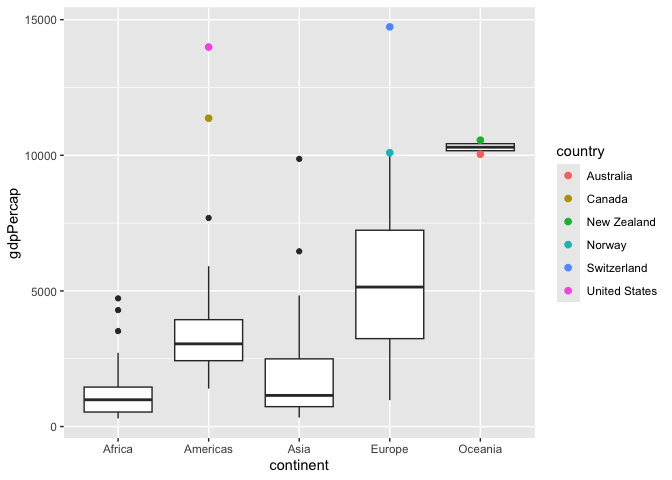
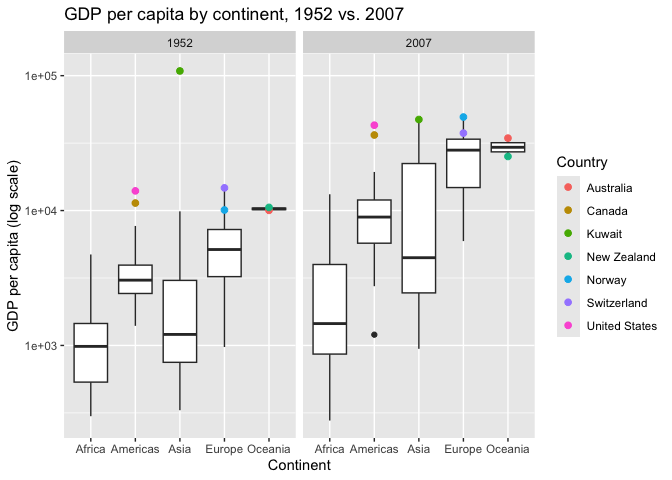
HW 4 Revision

diff --git a/challenges/c04-gapminder-assignment.md b/challenges/c04-gapminder-assignment.md
@@ -266,52 +266,44 @@ variables; think about using different aesthetics or facets.
 ``` r
 ## TASK: Create a visual of gdpPercap vs continent
 gapminder %>%
-  filter(
-    year == year_min,
-    gdpPercap < 30000
-  ) %>%
+  filter(year %in% c(year_min, year_max)) %>%
   ggplot(aes(x = continent, y = gdpPercap)) +
   geom_boxplot() +
   geom_point(
     data = . %>% filter(
-    year == year_min,
-    gdpPercap > 10000
-  ),
+      country %in% c(
+        "Australia", "Canada", "Kuwait", "New Zealand",
+        "Norway", "Switzerland", "United States"
+      )
+    ),
     mapping = aes(color = country),
     size = 2
+
+  ) +
+  scale_y_log10() +
+  facet_grid(~ year) +
+  labs(
+    title = "GDP per capita by continent, 1952 vs. 2007",
+    x = "Continent",
+    y = "GDP per capita (log scale)",
+    color = "Country"
   )
 ```
 
 ![](c04-gapminder-assignment_files/figure-gfm/q4-task-1.png)<!-- -->
 
-``` r
-gapminder %>%
-  filter(
-    year == year_max
-  ) %>%
-  ggplot(aes(x = continent, y = gdpPercap)) +
-  geom_boxplot() +
-  geom_point(
-    data = . %>% filter(country %in% c("Australia", "Canada", "New Zealand", "Norway", "Switzerland", "United States", "Kuwait")),
-    mapping = aes(color = country),
-    size = 2
-  )
-```
+**Observations**:
 
-![](c04-gapminder-assignment_files/figure-gfm/q4-task-2.png)<!-- -->
-
-**Observations**: After plotting the data, only highlighting the
-outliers from Q3, we are able to see some patterns and changes. Both
-Canada and the United States remain significant ouliers in the Americas
-boxplot. Although not all are outliers, most of the ouliers in the
-Americas, Asia, and Europe maintain a higher GDP per capita. The
-countries that dont’, however, are Switzerland and New Zeland. New
-Zeland is seen to actually drop below Australia in GDP. Switzerland is
-seen to drop in standing (not actual GDP) from being a noticable outlier
-to being a country within the 3rd quartile.
-
-One things to note: Most, if not all, countries saw and increase in GDP
-per capita.
+After plotting the data and highlighting only the outliers from q3, we
+can see some patterns and changes. Kuwait is by far the highest GDP per
+capita in 1952, but it falls to about by 2007, the only highlighted
+country whose GDP per capita decreased. Canada and the United States
+remain outliers in the Americas in both years. Switzerland is one of the
+highest in 1952 but no longer stands out from the rest of Europe in
+2007. New Zealand is above Australia in 1952 but falls below Australia
+in 2007. The median GDP per capita is higher in 2007 than in 1952 for
+every continent. Among the highlighted countries, all but Kuwait have a
+higher GDP per capita in 2007.
 
 # Your Own EDA
 
@@ -327,36 +319,32 @@ the relationship between variables, or something else entirely.
 ``` r
 ## TASK: Your first graph
 Africa_LifeExp_Under35 <- gapminder  %>%
-    filter(
+  filter(
     year == year_min,
     continent == "Africa",
     lifeExp < 35
   )
 
-countries_in_data = Africa_LifeExp_Under35 %>% 
+countries_in_data <- Africa_LifeExp_Under35 %>% 
   pull(country)
 
-
-Africa_LifeExp_Under35%>%
-  ggplot(aes(x = country, y = lifeExp)) +
-   geom_point() +
-  theme(axis.text.x = element_text(angle = 270, vjust = 0.5, hjust = 0))
-```
-
-![](c04-gapminder-assignment_files/figure-gfm/q5-task1-1.png)<!-- -->
-
-``` r
 gapminder %>%
   filter(
-    year == year_max,
+    year %in% c(year_max,year_min),
     country %in% countries_in_data
   ) %>%
   ggplot(aes(x = country, y = lifeExp)) +
-   geom_point() +
-  theme(axis.text.x = element_text(angle = 270, vjust = 0.5, hjust = 0))
+  geom_point() +
+  facet_grid(year~.) +
+  theme(axis.text.x = element_text(angle = 270, vjust = 0.5, hjust = 0)) +
+  labs(
+    title = "Life expectancy in African countries under 35 in 1952",
+    x = "Country",
+    y = "Life expectancy (years)"
+  )
 ```
 
-![](c04-gapminder-assignment_files/figure-gfm/q5-task1-2.png)<!-- -->
+![](c04-gapminder-assignment_files/figure-gfm/q5-task1-1.png)<!-- -->
 
 - For these graphs, I wanted to see how life expectancy changed in
   Africa with countries that had a life expectancy under 35 for the year
@@ -380,30 +368,22 @@ lowest GDP per capita growth?
 ## TASK: Your second graph
 gapminder %>%
   filter(
-    year == 1987,
+    year %in% c(1987, year_max),
     continent == "Americas",
     lifeExp > 75
   ) %>%
   ggplot(aes(x = country, y = lifeExp)) +
-   geom_point() +
-  theme(axis.text.x = element_text(angle = 270, vjust = 0.5, hjust = 0))
+  geom_point() +
+  facet_wrap(~ year, scales = "free_x") +
+  theme(axis.text.x = element_text(angle = 270, vjust = 0.5, hjust = 0)) +
+  labs(
+    title = "Countries in the Americas with life expectancy over 75",
+    x = "Country",
+    y = "Life expectancy (years)"
+  )
 ```
 
 ![](c04-gapminder-assignment_files/figure-gfm/q5-task2-1.png)<!-- -->
-
-``` r
-gapminder %>%
-  filter(
-    year == year_max,
-    continent == "Americas",
-    lifeExp > 75
-  ) %>%
-  ggplot(aes(x = country, y = lifeExp)) +
-   geom_point() +
-  theme(axis.text.x = element_text(angle = 270, vjust = 0.5, hjust = 0))
-```
-
-![](c04-gapminder-assignment_files/figure-gfm/q5-task2-2.png)<!-- -->
 
 - For these graphs I wanted to see which countries in the Americas had a
   life expectancy over 75 in 1987 compared to 2007. In 1987, only two
@@ -420,33 +400,26 @@ Questions about the data:
 period?
 
 ``` r
-## TASK: Your third graph
+# TASK: Your third graph
 gapminder %>%
   filter(
-    year == 1987,
     lifeExp > 60,
-    gdpPercap > 25000
+    (year == 1987 & gdpPercap > 25000) |
+      (year == year_max & gdpPercap > 35000)
   ) %>%
-  ggplot(aes(x = country, y = lifeExp)) +
-   geom_point() +
-  theme(axis.text.x = element_text(angle = 270, vjust = 0.5, hjust = 0))
+  ggplot(aes(x = country, y = lifeExp, color = year)) +
+  geom_point(size = 3) +
+  facet_wrap(~ year, scales = "free_x") +
+  theme(axis.text.x = element_text(angle = 270, vjust = 0.5, hjust = 0)) +
+  labs(
+    title = "Life expectancy of high-income countries, 1987 vs. 2007",
+    x = "Country",
+    y = "Life expectancy (years)",
+    color = "Year"
+  )
 ```
 
 ![](c04-gapminder-assignment_files/figure-gfm/q5-task3-1.png)<!-- -->
-
-``` r
-gapminder %>%
-  filter(
-    year == year_max,
-    lifeExp > 60,
-    gdpPercap > 35000
-  ) %>%
-  ggplot(aes(x = country, y = lifeExp)) +
-   geom_point() +
-  theme(axis.text.x = element_text(angle = 270, vjust = 0.5, hjust = 0))
-```
-
-![](c04-gapminder-assignment_files/figure-gfm/q5-task3-2.png)<!-- -->
 
 - For these graphs, I wanted to see which countries had a GDP per capita
   above \$25,000 and a life expectancy above 60 in 1987? By year_max,
